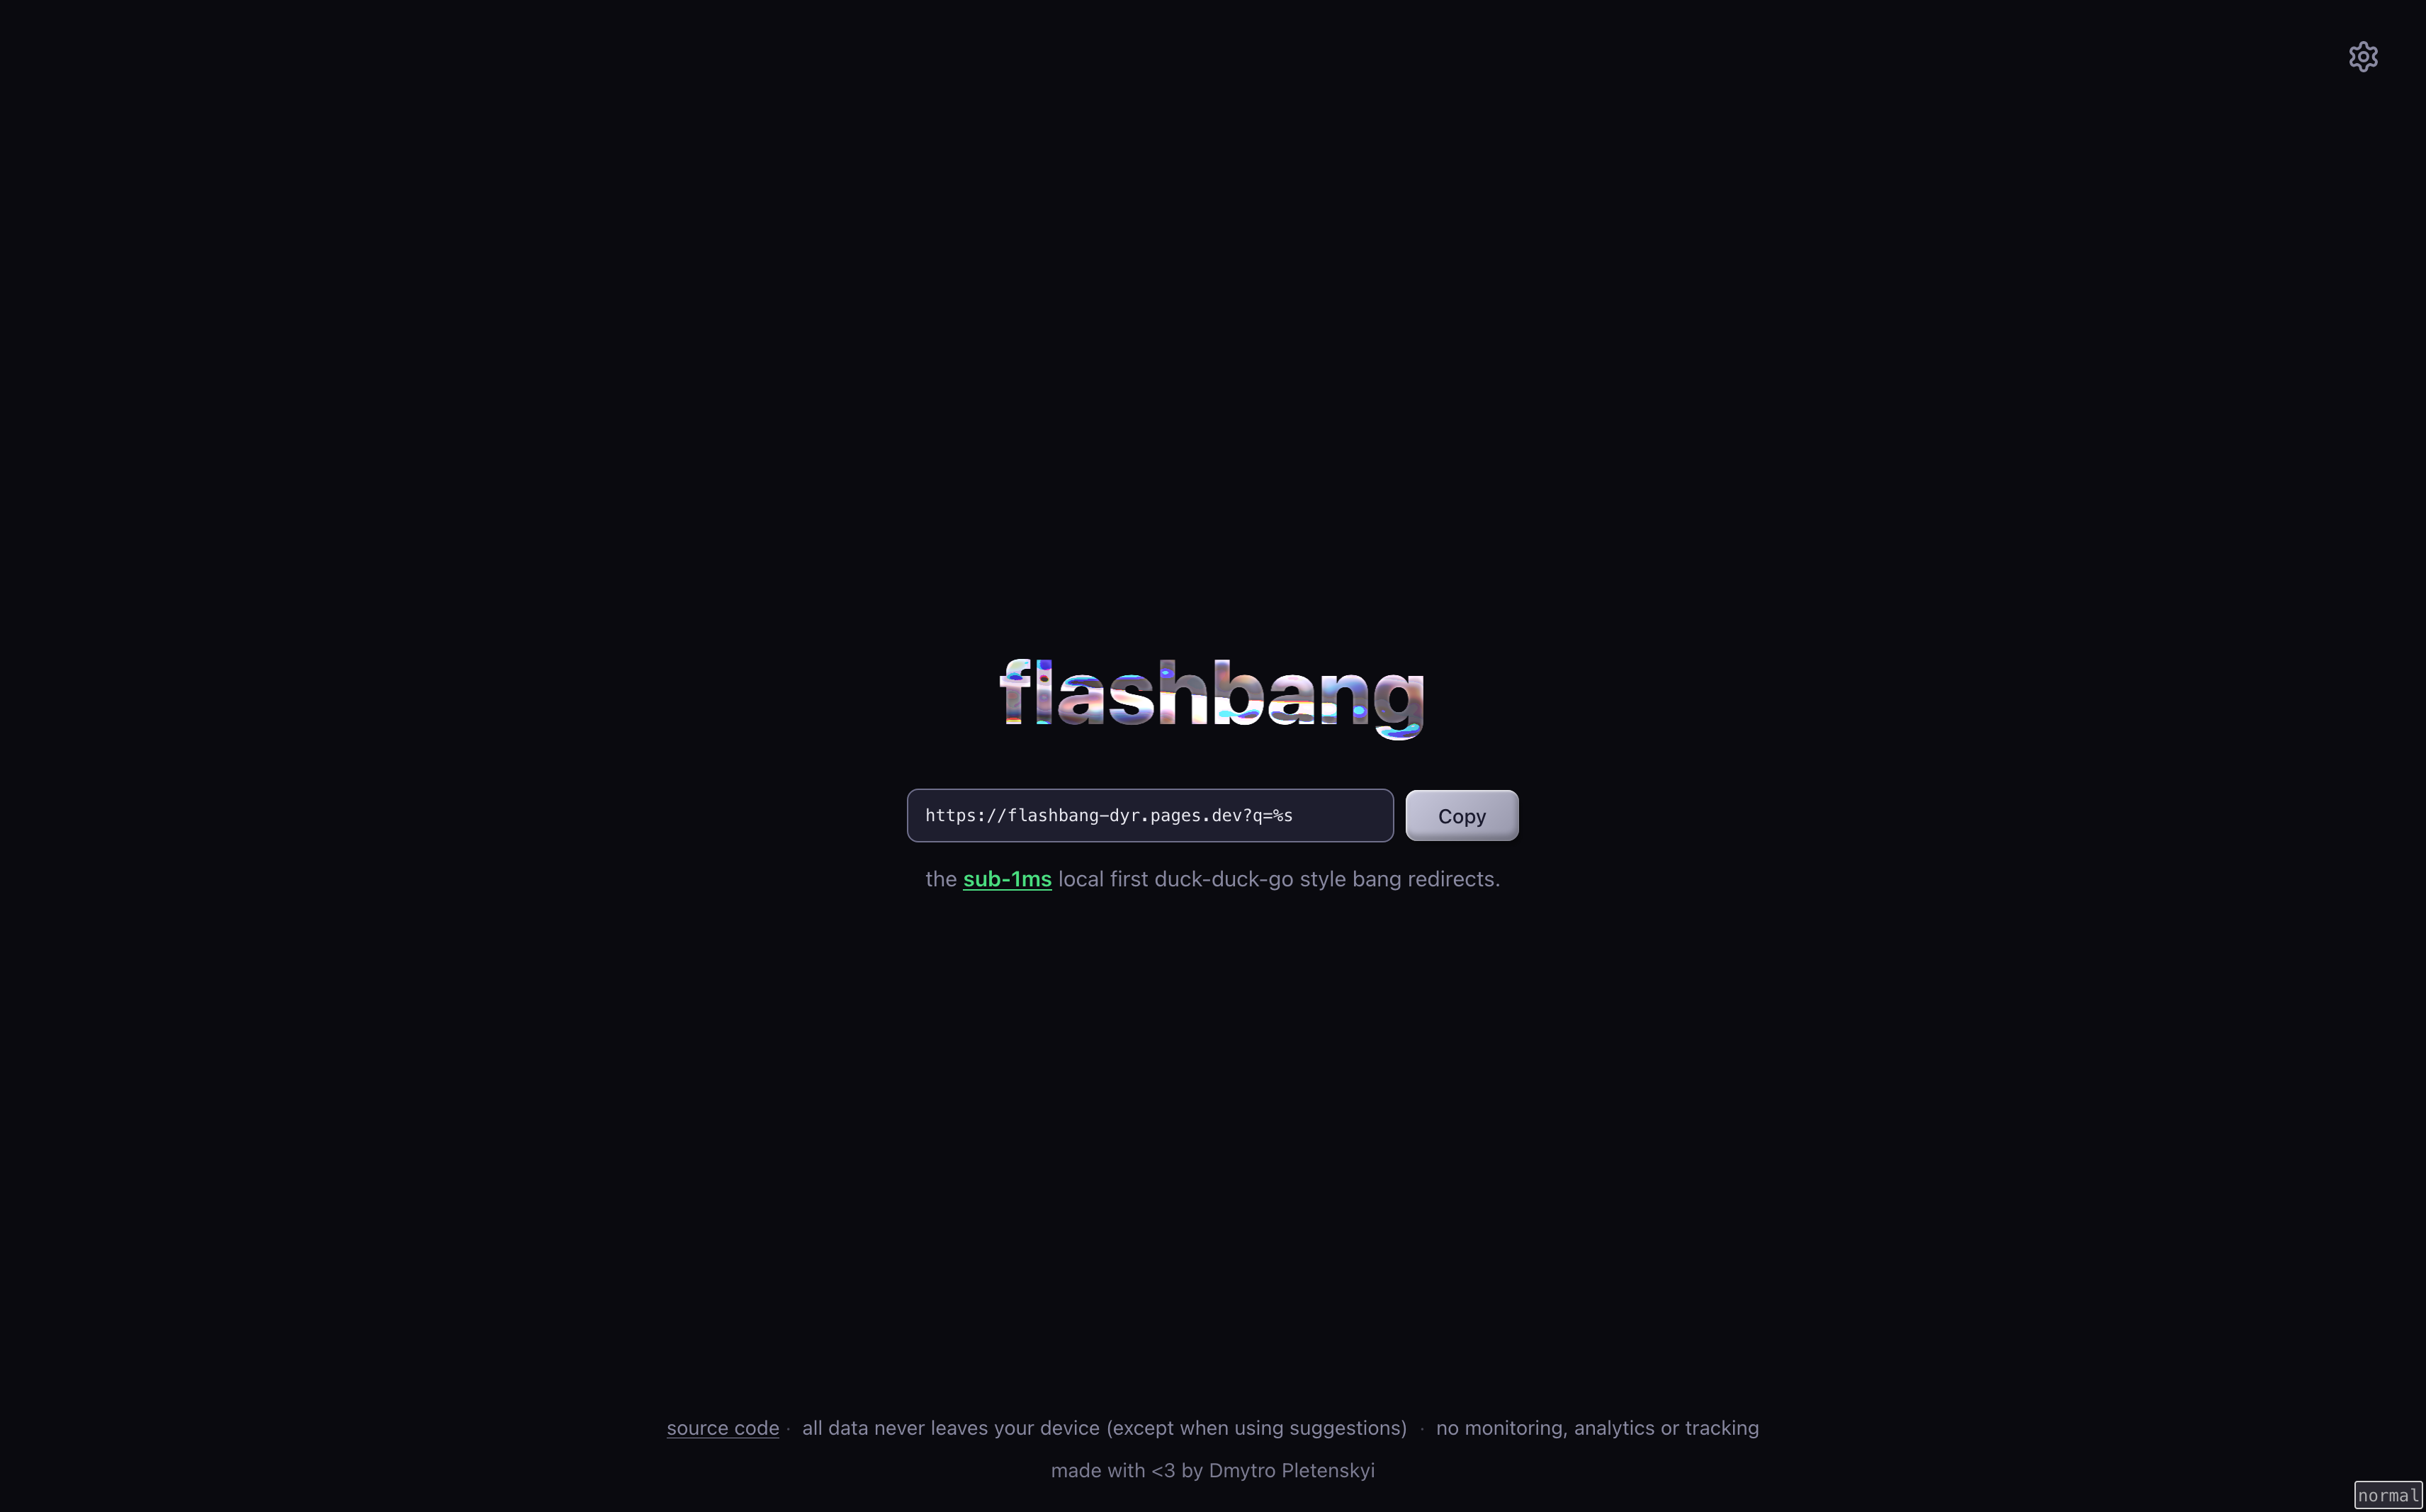
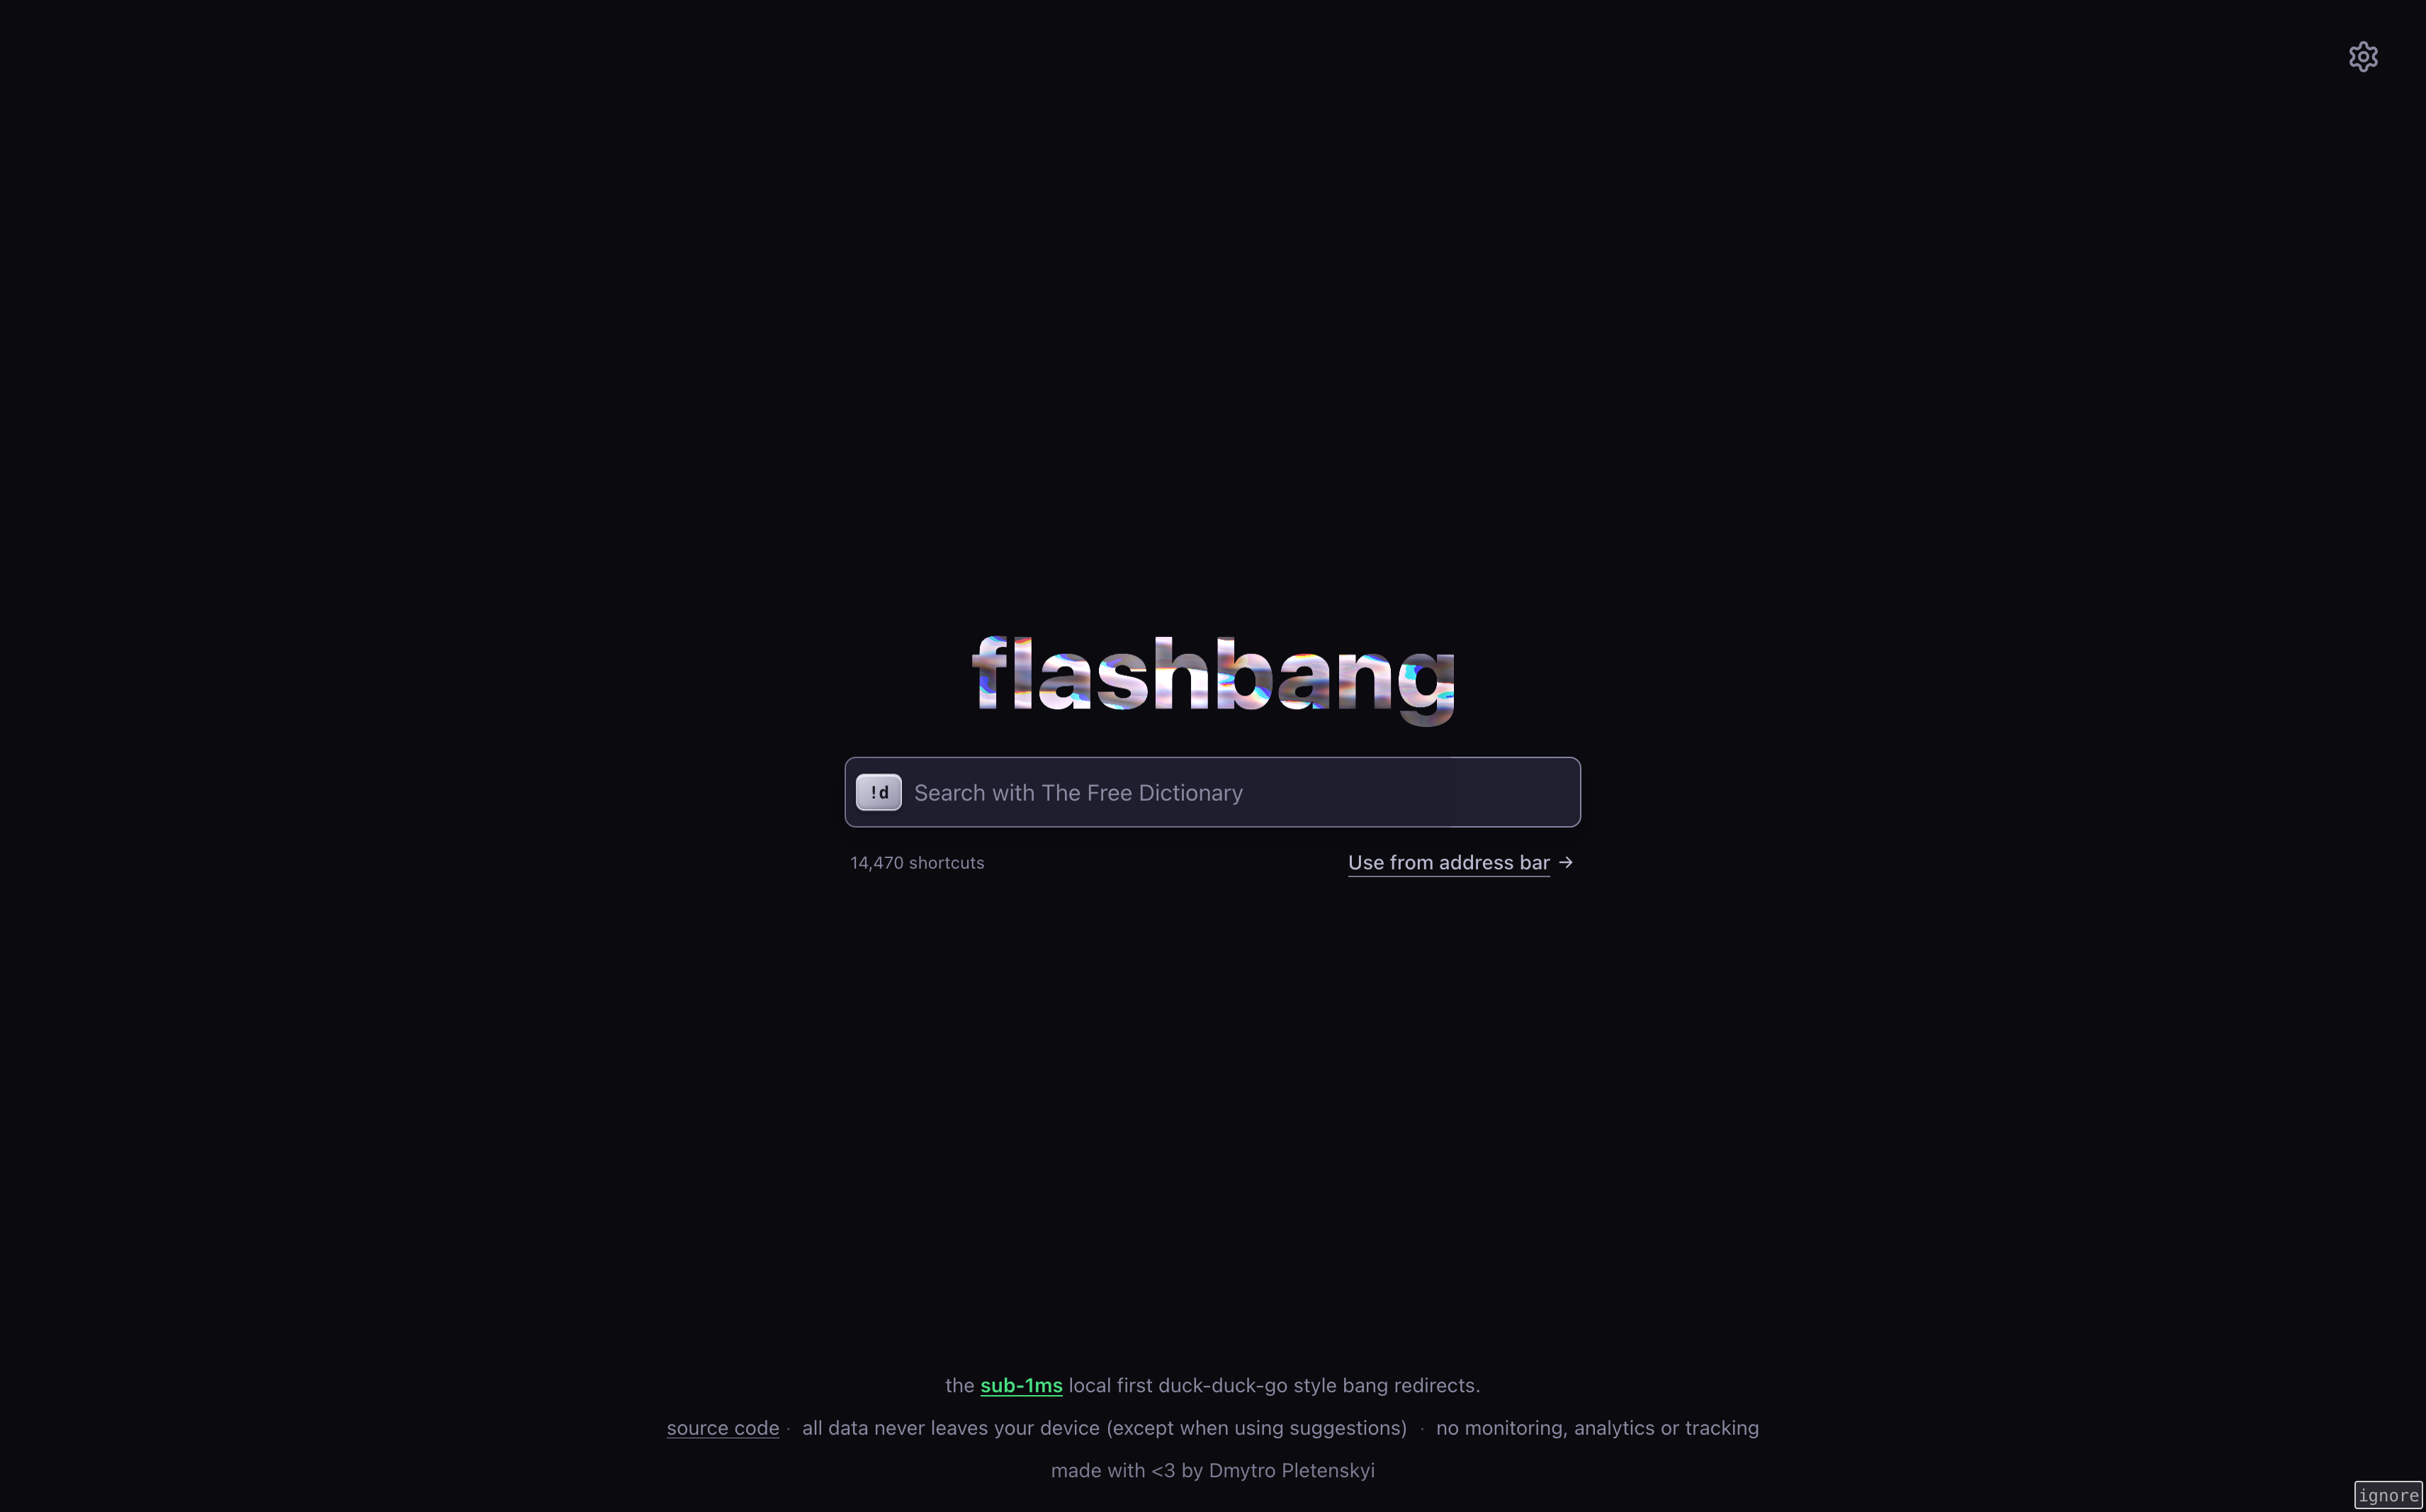
feat(ui): improve bang picker keyboard navigation and accessibility
Make bang suggestions easier to use without a mouse by adding
ARIA combobox state and keyboard selection to the default bang
picker, including vim-style shortcuts.

Also avoid treating an empty homepage bang input as a command so
the suggestions stay hidden until the user actually starts typing.

diff --git a/src/ui/settings/default-bang.ts b/src/ui/settings/default-bang.ts
@@ -1,5 +1,9 @@
 import { flashAnim, shakeAnim } from "../animations";
-import { loadBuiltinBangCatalog, searchBangs } from "../bang-catalog";
+import {
+  type BangMeta,
+  loadBuiltinBangCatalog,
+  searchBangs,
+} from "../bang-catalog";
 import type { DB } from "../db";
 import { $, el } from "../dom";
 import { notifySW } from "../sw-bridge";
@@ -28,6 +32,9 @@ export async function setupDefaultBangSetting({
   const catalog = await loadBuiltinBangCatalog();
   let committedBang = initialBang;
   let previewTimer: ReturnType<typeof setTimeout>;
+  let hits: BangMeta[] = [];
+  let optionElements: HTMLButtonElement[] = [];
+  let selected = -1;
 
   input.value = initialBang;
   status.textContent = catalog.byTrigger.get(initialBang)?.name || "Unknown";
@@ -35,6 +42,45 @@ export async function setupDefaultBangSetting({
   function closePreview(): void {
     results.classList.add("hidden");
     results.replaceChildren();
+    input.setAttribute("aria-expanded", "false");
+    input.removeAttribute("aria-activedescendant");
+    hits = [];
+    optionElements = [];
+    selected = -1;
+  }
+
+  function renderSelection(previous = -1, scroll = true): void {
+    const previousOption = optionElements[previous];
+    if (previousOption) {
+      previousOption.classList.remove("command-result-active");
+      previousOption.setAttribute("aria-selected", "false");
+    }
+    const option = optionElements[selected];
+    if (option) {
+      option.classList.add("command-result-active");
+      option.setAttribute("aria-selected", "true");
+      input.setAttribute("aria-activedescendant", option.id);
+      if (scroll) {
+        option.scrollIntoView({ block: "nearest" });
+      }
+    } else {
+      input.removeAttribute("aria-activedescendant");
+    }
+  }
+
+  function setSelection(next: number): void {
+    if (next === selected) {
+      return;
+    }
+    const previous = selected;
+    selected = next;
+    renderSelection(previous);
+  }
+
+  function selectBang(bang: BangMeta): void {
+    input.value = bang.trigger;
+    closePreview();
+    input.dispatchEvent(new Event("change"));
   }
 
   function setCommitted(trigger: string): void {
@@ -53,7 +99,9 @@ export async function setupDefaultBangSetting({
       return;
     }
     previewTimer = setTimeout(() => {
-      const hits = searchBangs(catalog.entries, query, 6);
+      hits = searchBangs(catalog.entries, query, 6);
+      selected = hits.length > 0 ? 0 : -1;
+      optionElements = [];
       if (hits.length === 0) {
         results.replaceChildren(
           el(
@@ -63,42 +111,68 @@ export async function setupDefaultBangSetting({
           )
         );
       } else {
-        results.replaceChildren(
-          ...hits.map(({ trigger, name, domain }) => {
-            const row = el(
-              "button",
-              "flex w-full items-center gap-2 rounded-md border-none bg-transparent px-2 py-1.5 text-left text-text cursor-pointer hover:bg-bg-hover"
-            );
-            row.type = "button";
-            row.dataset.trigger = trigger;
-            row.setAttribute("role", "option");
-            row.append(
-              el(
-                "code",
-                "min-w-14 rounded bg-bg-active px-1.5 py-0.5 text-center font-mono text-xs",
-                `!${trigger}`
-              ),
-              el("span", "min-w-0 flex-1 truncate text-xs font-medium", name),
-              el(
-                "span",
-                "hidden max-w-28 truncate text-[10px] text-text-secondary sm:block",
-                domain
-              )
-            );
-            row.addEventListener("pointerdown", (event) => {
-              event.preventDefault();
-            });
-            row.addEventListener("click", () => {
-              input.value = trigger;
-              closePreview();
-              input.dispatchEvent(new Event("change"));
-            });
-            return row;
-          })
-        );
+        optionElements = hits.map((bang, index) => {
+          const { trigger, name, domain } = bang;
+          const row = el(
+            "button",
+            "command-result flex w-full items-center gap-2 rounded-md border-none px-2 py-1.5 text-left text-text cursor-pointer"
+          );
+          row.id = `default-bang-option-${index}`;
+          row.type = "button";
+          row.dataset.trigger = trigger;
+          row.setAttribute("role", "option");
+          row.setAttribute("aria-selected", String(index === selected));
+          row.append(
+            el(
+              "code",
+              "command-badge min-w-14 rounded-md px-2 py-0.5 text-center font-mono text-xs font-semibold",
+              `!${trigger}`
+            ),
+            el("span", "min-w-0 flex-1 truncate text-xs font-medium", name),
+            el(
+              "span",
+              "hidden max-w-28 truncate text-[10px] text-text-secondary sm:block",
+              domain
+            )
+          );
+          row.addEventListener("pointerdown", (event) => {
+            event.preventDefault();
+          });
+          row.addEventListener("pointerenter", () => setSelection(index));
+          row.addEventListener("click", () => selectBang(bang));
+          return row;
+        });
+        results.replaceChildren(...optionElements);
       }
       results.classList.remove("hidden");
+      input.setAttribute("aria-expanded", "true");
+      renderSelection(-1, false);
     }, 120);
+  });
+
+  input.addEventListener("keydown", (event) => {
+    const vimKey = event.ctrlKey ? event.key.toLowerCase() : "";
+    const next = event.key === "ArrowDown" || vimKey === "j";
+    const previous = event.key === "ArrowUp" || vimKey === "k";
+    if (next && hits.length > 0) {
+      event.preventDefault();
+      event.stopPropagation();
+      setSelection((selected + 1) % hits.length);
+    } else if (previous && hits.length > 0) {
+      event.preventDefault();
+      event.stopPropagation();
+      setSelection((selected - 1 + hits.length) % hits.length);
+    } else if (event.key === "Escape") {
+      closePreview();
+    } else if (
+      (event.key === "Enter" || vimKey === "y") &&
+      selected >= 0 &&
+      hits[selected]
+    ) {
+      event.preventDefault();
+      event.stopPropagation();
+      selectBang(hits[selected]);
+    }
   });
 
   input.addEventListener("change", () => {

diff --git a/tests/e2e/flashbang.e2e.ts b/tests/e2e/flashbang.e2e.ts
@@ -387,6 +387,7 @@ test("suggestions include custom bang entries from the suggest cookie", async ({
 test("homepage bang finder supports keyboard selection", async ({ page }) => {
   await openHome(page);
   const input = page.locator("#bang-command-input");
+  await expect(page.locator("#bang-command-results")).toBeHidden();
   await expect(input).toHaveCSS("border-top-width", "1px");
   await expect(input).toHaveCSS("border-top-style", "solid");
 
@@ -550,13 +551,44 @@ test("default search engine field previews and selects bangs", async ({
   const writeCount = await settingsWriteCount(page);
 
   await page.fill("#default-bang", "youtube");
+  const input = page.locator("#default-bang");
   const results = page.locator("#default-bang-results");
   await expect(results).toBeVisible();
   await expect(page.locator("#bang-search")).toHaveCount(0);
-  await page.click('[data-trigger="yt"]');
+  await expect(input).toHaveAttribute(
+    "aria-activedescendant",
+    "default-bang-option-0"
+  );
+  await input.press("Control+j");
+  await expect(input).toHaveAttribute(
+    "aria-activedescendant",
+    "default-bang-option-1"
+  );
+  await input.press("Control+k");
+  await expect(input).toHaveAttribute(
+    "aria-activedescendant",
+    "default-bang-option-0"
+  );
+  await input.press("ArrowDown");
+  await expect(input).toHaveAttribute(
+    "aria-activedescendant",
+    "default-bang-option-1"
+  );
+  await input.press("ArrowUp");
+  await expect(input).toHaveAttribute(
+    "aria-activedescendant",
+    "default-bang-option-0"
+  );
+  await input.press("ArrowDown");
+  const activeOption = results.locator('[role="option"]').nth(1);
+  const activeTrigger = await activeOption.getAttribute("data-trigger");
+  const activeName = await activeOption.locator("span").first().textContent();
+  expect(activeTrigger).toBeTruthy();
+  expect(activeName).toBeTruthy();
+  await input.press("Control+y");
 
-  await expect(page.locator("#default-bang")).toHaveValue("yt");
-  await expect(page.locator("#bang-status")).toContainText("YouTube");
+  await expect(input).toHaveValue(activeTrigger!);
+  await expect(page.locator("#bang-status")).toContainText(activeName!);
   await waitForSettingsWrite(page, writeCount);
 });
 

diff --git a/src/ui/home/index.html b/src/ui/home/index.html
@@ -325,6 +325,10 @@
                 class="input-field w-20 font-mono text-sm"
                 autocomplete="off"
                 spellcheck="false"
+                role="combobox"
+                aria-autocomplete="list"
+                aria-controls="default-bang-results"
+                aria-expanded="false"
               >
               <span id="bang-status" class="text-sm text-text-secondary"></span>
             </div>

diff --git a/src/ui/home/command.ts b/src/ui/home/command.ts
@@ -46,6 +46,9 @@ export function setupBangCommand(db: DB): HTMLInputElement {
     terms: string;
   } | null {
     const value = input.value.trimStart();
+    if (!value) {
+      return null;
+    }
     const leadingMarker = value.charAt(0);
     if (leadingMarker === "!" || leadingMarker === "@") {
       const search = value.substring(1);